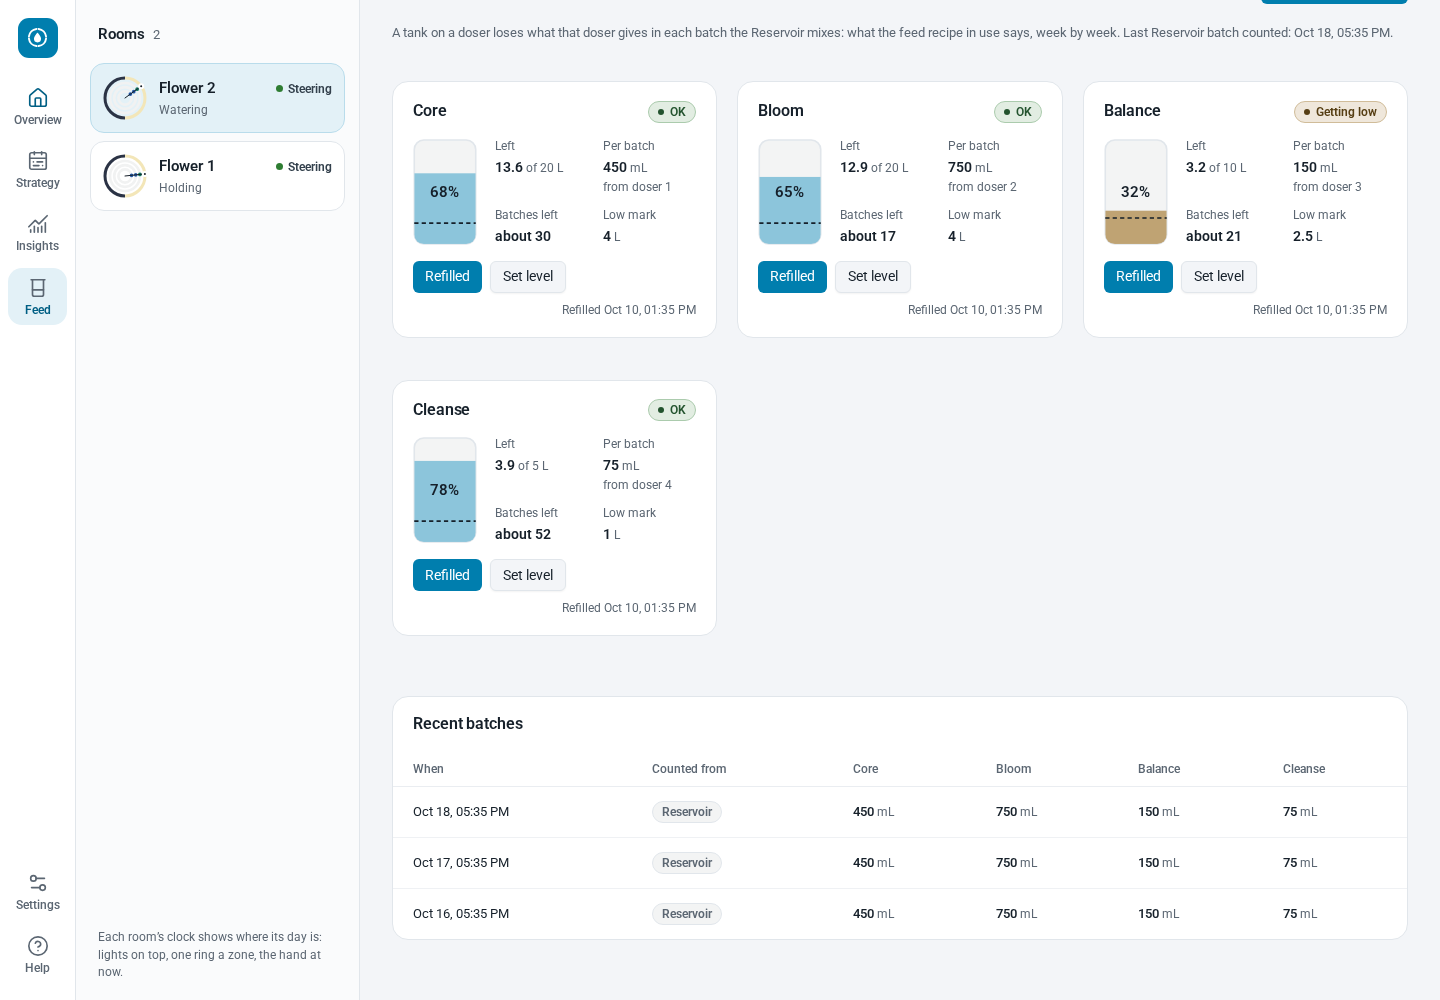
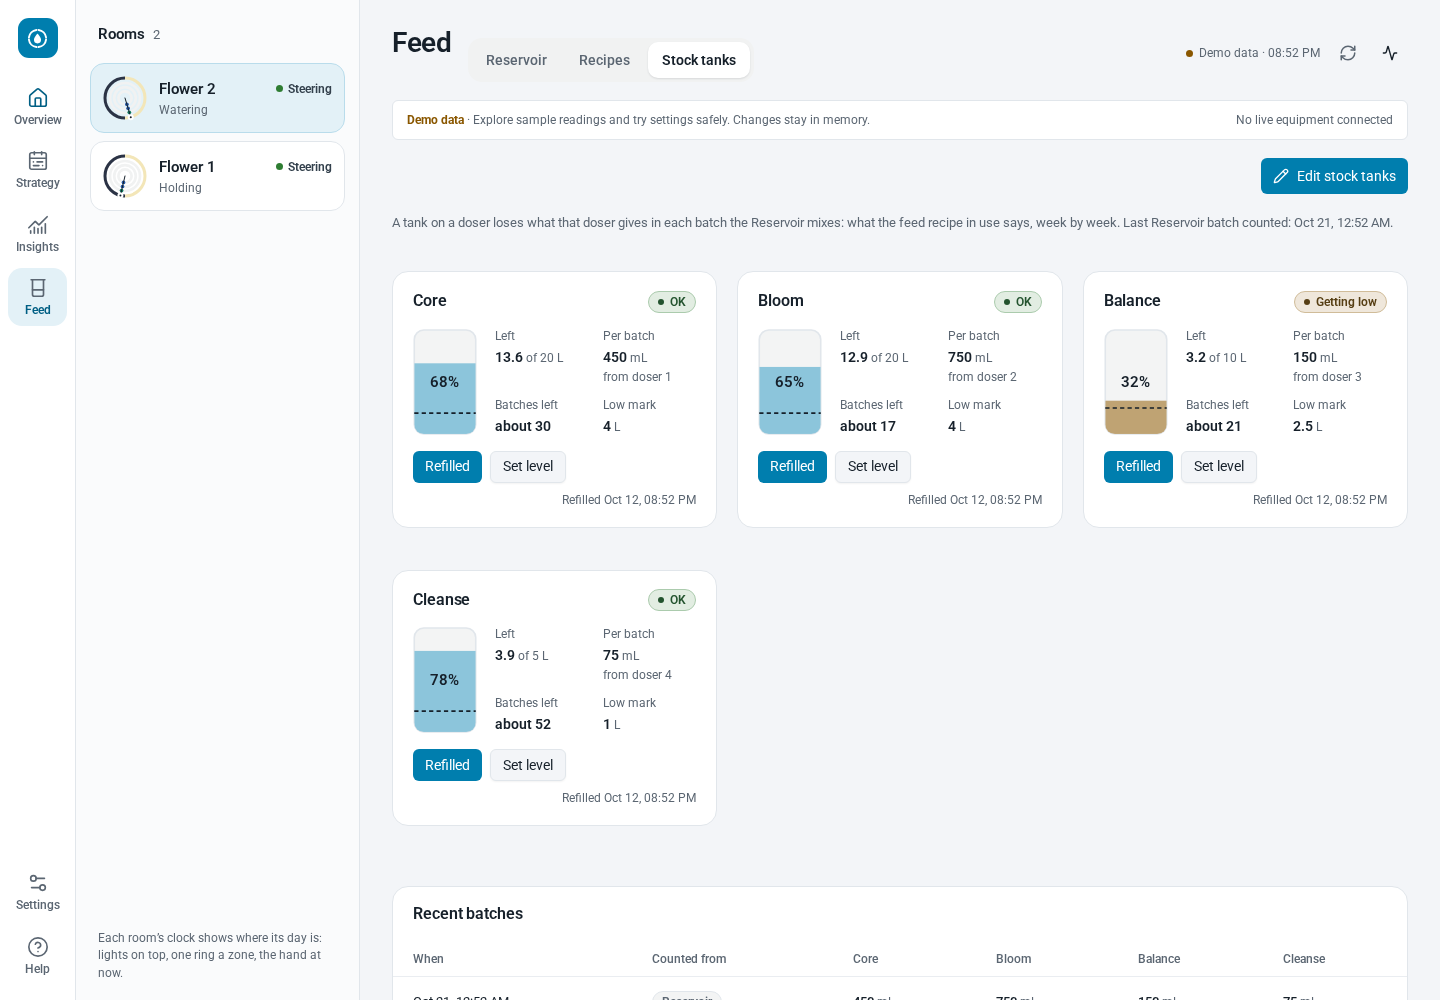
docs: watering waits for a saved setup change to be taken on

diff --git a/docs/USER_GUIDE.md b/docs/USER_GUIDE.md
@@ -162,7 +162,7 @@ An HA administrator uses **Settings → Rooms & hardware**. Pair devices and exp
 4. Enter plant count, substrate litres **per plant**, drippers **per plant**, and flow in litres/hour **per dripper**. Review existing values instead of replacing them with generic defaults.
 5. Map the optional room equipment, and the **Reservoir & dosers** if the controller app mixes the room's feed (see [Mix nutrient batches](#mix-nutrient-batches-reservoir)). Explicitly map shared equipment only where appropriate; never reuse a zone valve accidentally.
 6. A change that maps a switch differently (the pump, the main line, a zone's valve, the reservoir's solenoids or dosers), the plumbing, or which zones are in use saves only with the room's watering off: the page then asks for it, with the watering switch, and lists anything else that still reads on. A sensor, a name or a size saves with watering on. **Review configuration** shows the changes; **Save configuration** persists the setup after backend validation.
-7. The controller takes the saved change on within a minute: one that switches nothing differently at once, one that does while watering is off. **Mapping acknowledged** on this page says it has; until then the Overview says the room is not watering, and why. Then verify **Overview** and **Insights → Zone**, where **Every zone’s probes, now** shows whether every zone's probes give a current reading, before restoring the prior scheduling state.
+7. The controller takes the saved change on within a minute: one that switches nothing differently at once, one that does while watering is off. **Mapping acknowledged** on this page says it has. Until then the Overview says the room is not watering, and why, and watering waits: **Start steering…** reads **Waiting for the controller…**. Then verify **Overview** and **Insights → Zone**, where **Every zone’s probes, now** shows whether every zone's probes give a current reading, before restoring the prior scheduling state.
 
 Zone and room removal archives stable IDs. **Restore zone** or **Restore room** reactivates the same identity after review; archived slots are not silently reused for different hardware. Adding/archiving a zone may require updating a draft irrigation strategy's assignments.
 
@@ -233,7 +233,7 @@ For an existing timed zone hold, Home Assistant exposes the `crop_steering.set_m
 | Tank **Not mapped** or **Not set up**          | **Not mapped**: map the reservoir's level sensor in **Settings → Rooms & hardware → Reservoir & dosers**. **Not set up**: set its distances when full and when empty on **Feed → Reservoir**. |
 | Last irrigation or Last refill is missing      | Both are the controller's own records: a zone has no Last irrigation until the controller has watered it, and a room no Last refill until it has refilled its reservoir. A sensor's update time never stands in for either. |
 | A reading shows **Check units**                | Inspect the actual HA unit and choose/repair the appropriate entity. Do not relabel an unrelated quantity to pass validation.                                    |
-| Setup is saved but adoption is pending         | The controller takes a saved change on within a minute: at once if it switches nothing differently, else once the room's watering is off (**Switch watering off…** on the Overview). Switch watering back on once Rooms & hardware says **Mapping acknowledged**. |
+| Setup is saved but adoption is pending         | The controller takes a saved change on within a minute: at once if it switches nothing differently, else once the room's watering is off (**Switch watering off…** on the Overview). Watering can go back on once Rooms & hardware says **Mapping acknowledged**; until then **Start steering…** reads **Waiting for the controller…**. |
 | Slider appears to do nothing                   | Inspect both selected endpoint columns. Equal endpoints are deliberately equal at every balance.                                                                 |
 | Today is read-only                             | Inspect the schedule or connection state. Active schedules show effective read-only targets; use Schedule and the normal boundary handoff before manual editing. |
 | Cannot load a saved strategy                   | Check active-zone IDs, current limits, strategy state, connection and explicit replacement acknowledgement.                                                          |

diff --git a/docs/troubleshooting.md b/docs/troubleshooting.md
@@ -22,7 +22,7 @@ for what it means, what happens to watering meanwhile, the likely causes and wha
 | **Help** shows *Controller: not reported* (or *Integration: not reported*) | *Controller: not reported*: the controller app is not running, or has not reported for this room yet. Start it and wait one loop (up to a minute). *Integration: not reported*: the room has not loaded; check it under Settings → Devices & services. The two parts carry one version number: if **Help** shows two different ones, update the older part. |
 | Notification: *plumbing and switches disagree, not watering (CS-202)* | The room's declared plumbing and its mapped switches contradict each other (it says it has a pump and none is mapped, or the other way round), so the controller will not water it. Nothing is wrong with the hardware. Fix it in **Settings → Rooms & hardware**: map the missing switch, or change the plumbing to what the room really has. The hold clears by itself once the new setup is taken on: within a minute of the room's watering and its hardware reading off, as for any change that remaps a switch. |
 | Setup refuses to save: *The plumbing for this room is set to […], but no pump switch is chosen* | You said the room has a pump (or a main-line valve) and did not choose one, or cleared one that the layout needs. Choose the switch, or change the plumbing if the room really has none. |
-| Mapping saved but controller has old data          | Compare setup revision with controller acknowledgement. Wait for rediscovery and inspect app logs.                                                                                                                                                                                                                                                                                      |
+| Mapping saved but controller has old data          | Compare setup revision with controller acknowledgement. The controller takes a change on within a minute, once watering is off if it remaps a switch; until then **Start steering…** reads **Waiting for the controller…**. If it lasts longer, read the CS-201 notification and inspect app logs.                                                                                      |
 | Room/zone disappeared                              | Check Settings → Rooms & hardware for archived entries. Restore the same ID; do not reuse IDs for different equipment.                                                                                                                                                                                                                                                                  |
 | No recorded EC line                                | Confirm mapped EC entities are recorded in HA Recorder and have data in the selected time range. A target line is not a sensor history.                                                                                                                                                                                                                                                 |
 | Shot volume disagrees with observation             | Verify litres per plant, plant count, drippers/plant and actual L/h; run a catch test. Inspect duration caps and physical pressure/flow.                                                                                                                                                                                                                                                |

diff --git a/CHANGELOG.md b/CHANGELOG.md
@@ -17,6 +17,10 @@ and this project adheres to [Semantic Versioning](https://semver.org/spec/v2.0.0
   saves and is taken on with watering on. Rooms & hardware asks for watering off only when a switch
   is remapped, in plain words, and stops asking once watering is off. When a change does wait, the
   Overview says so in plain words, with **Switch watering off…** beside it.
+- **Watering waits for a saved change.** Saved with watering off, a change is taken on at the
+  controller's next pass, and until then watering can't be switched back on: **Start steering…**
+  reads **Waiting for the controller…**. Switched back on sooner, it used to hold the room until
+  watering was cycled off again.
 
 ### 🔧 Technical notes
 
@@ -41,6 +45,13 @@ and this project adheres to [Semantic Versioning](https://semver.org/spec/v2.0.0
   plainly, with `ModeButton` (**Switch watering off…**, the mode pill's Watching only review) while
   watering is on; a zone held for it reads **Setup change waiting** and raises no zone notice of its
   own. The demo refuses a save as the integration does. CS-201's help says the same.
+- Dashboard: `setupWait` (`lib/model.ts`) says when the controller takes on a saved change it has
+  not yet (the heartbeat's `setup_revision` below the descriptor's, the heartbeat fresh): "within a
+  minute", or once the hardware it names as running reads off. Until then the mode pill's Steering
+  option, **Start steering…** (`ModeButton`) and Rooms & hardware's watering switch (`WateringPower`)
+  are disabled and say why, and the Watching only line says what it waits for. The demo's controller
+  takes a saved change on at its own next pass (`DEMO_PASS_MS` after the save, however often the
+  dashboard refreshes), with watering on only when it switches nothing differently.
 
 ## [1.4.0] - 2026-10-19
 

diff --git a/custom_components/crop_steering/WHATS_NEW.md b/custom_components/crop_steering/WHATS_NEW.md
@@ -24,6 +24,7 @@ version being released.
 ## Unreleased
 
 - Mapping a sensor or renaming no longer needs watering off, and a change that does is picked up within a minute, not five.
+- After a setup change, watering waits until the controller has picked it up, so switching back on too soon can't hold the room.
 
 ## 1.4.0 - 2026-10-19
 

diff --git a/addons/f2_control/CHANGELOG.md b/addons/f2_control/CHANGELOG.md
@@ -1,6 +1,7 @@
 # Unreleased
 
 - The controller takes a saved setup change on within a minute, and one that changes no switch (a sensor, a name) with watering on.
+- The dashboard keeps watering off after a saved setup change until the controller has taken it on.
 
 # 1.4.0
 
